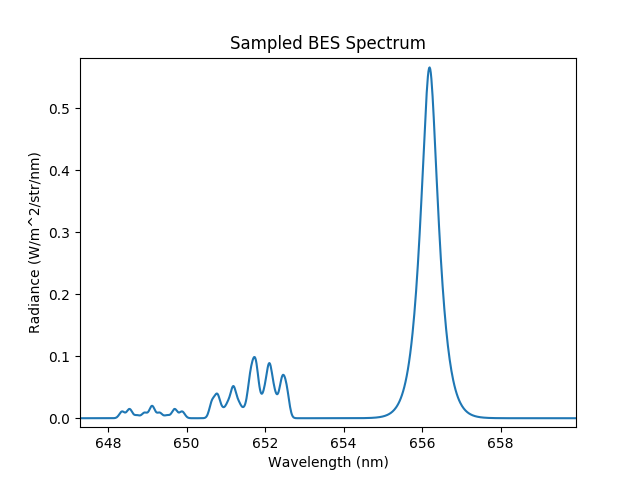
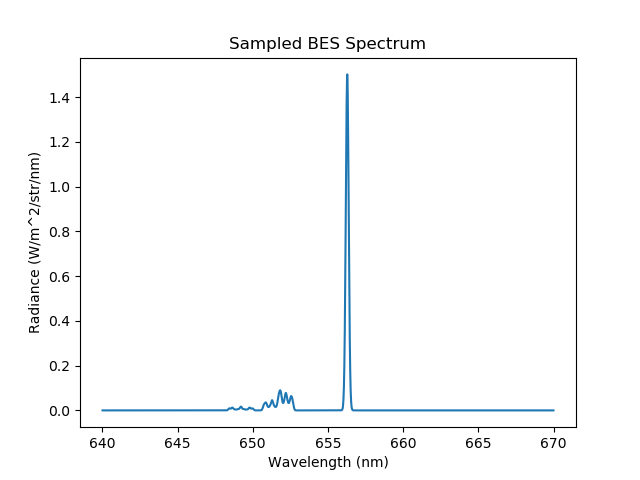
Updated BES demo and related figures to take into account previously fixed #235.

diff --git a/demos/emission_models/beam_emission_spectrum.py b/demos/emission_models/beam_emission_spectrum.py
@@ -21,14 +21,14 @@ from cherab.openadas import OpenADAS
 
 world = World()
 
-plasma = build_slab_plasma(width=1.0, height=3.0, peak_density=1e18,
+plasma = build_slab_plasma(width=1.0, height=3.0, peak_density=1e18, neutral_temperature=20.0,
                            impurities=[(carbon, 6, 0.005)], parent=world)
 plasma.b_field = Vector3D(0, 1.5, 0)
 plasma.atomic_data = OpenADAS(permit_extrapolation=True)
 
 # add background emission
-d_alpha = Line(hydrogen, 0, (3, 2))
-plasma.models = [ExcitationLine(d_alpha), RecombinationLine(d_alpha)]
+h_alpha = Line(hydrogen, 0, (3, 2))
+plasma.models = [ExcitationLine(h_alpha), RecombinationLine(h_alpha)]
 
 
 ####################
@@ -191,5 +191,5 @@ camera.spectral_rays = 1
 camera.spectral_bins = 15
 camera.pixel_samples = 50
 camera.observe()
-
+plt.ioff()
 plt.show()
